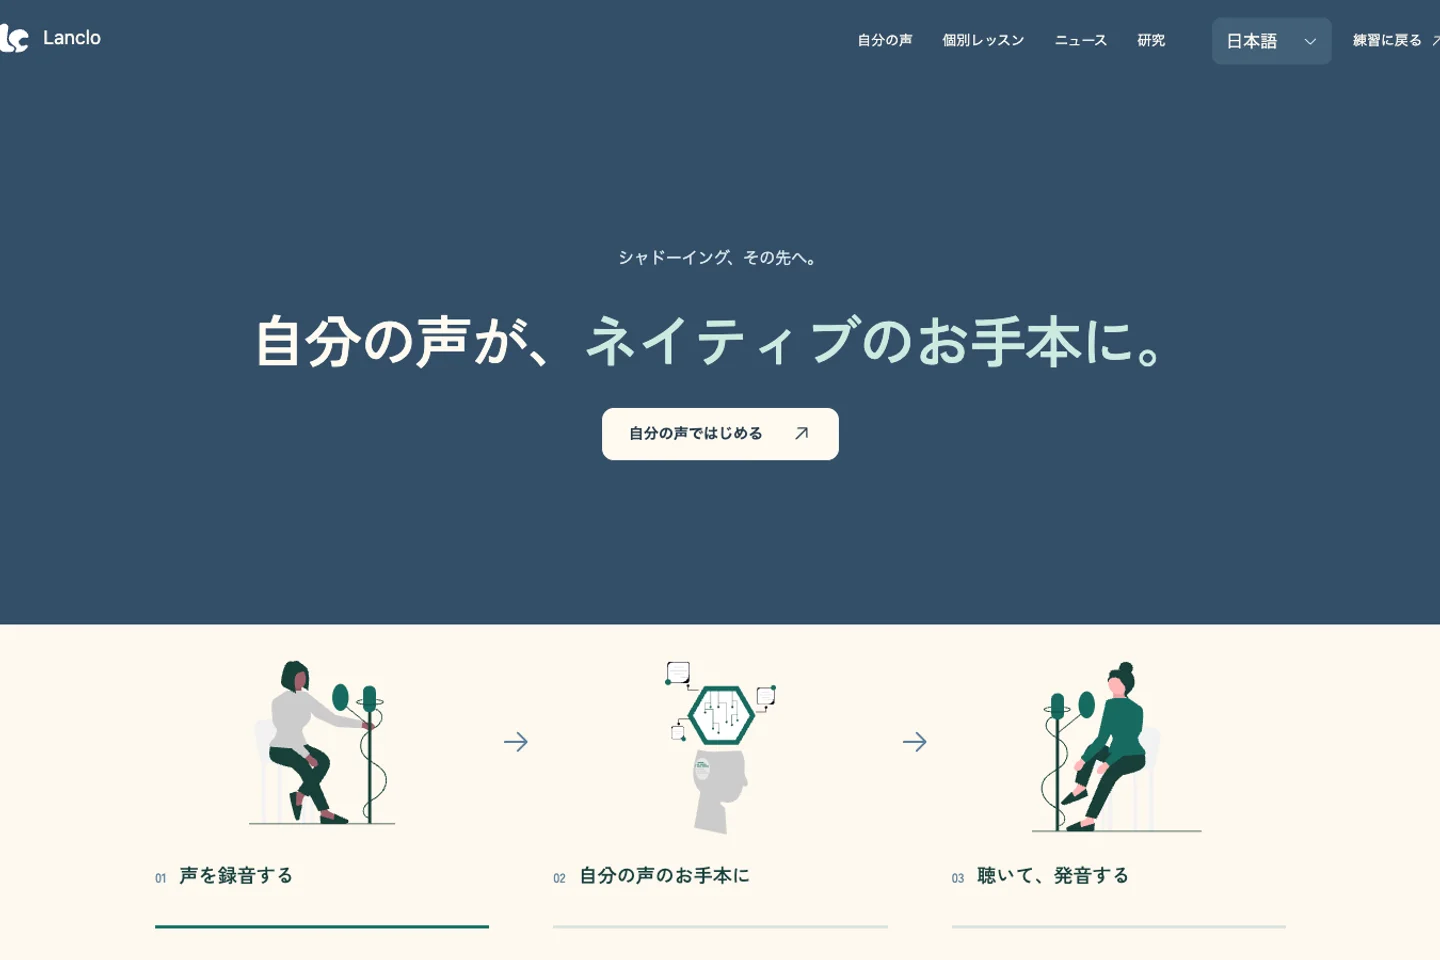
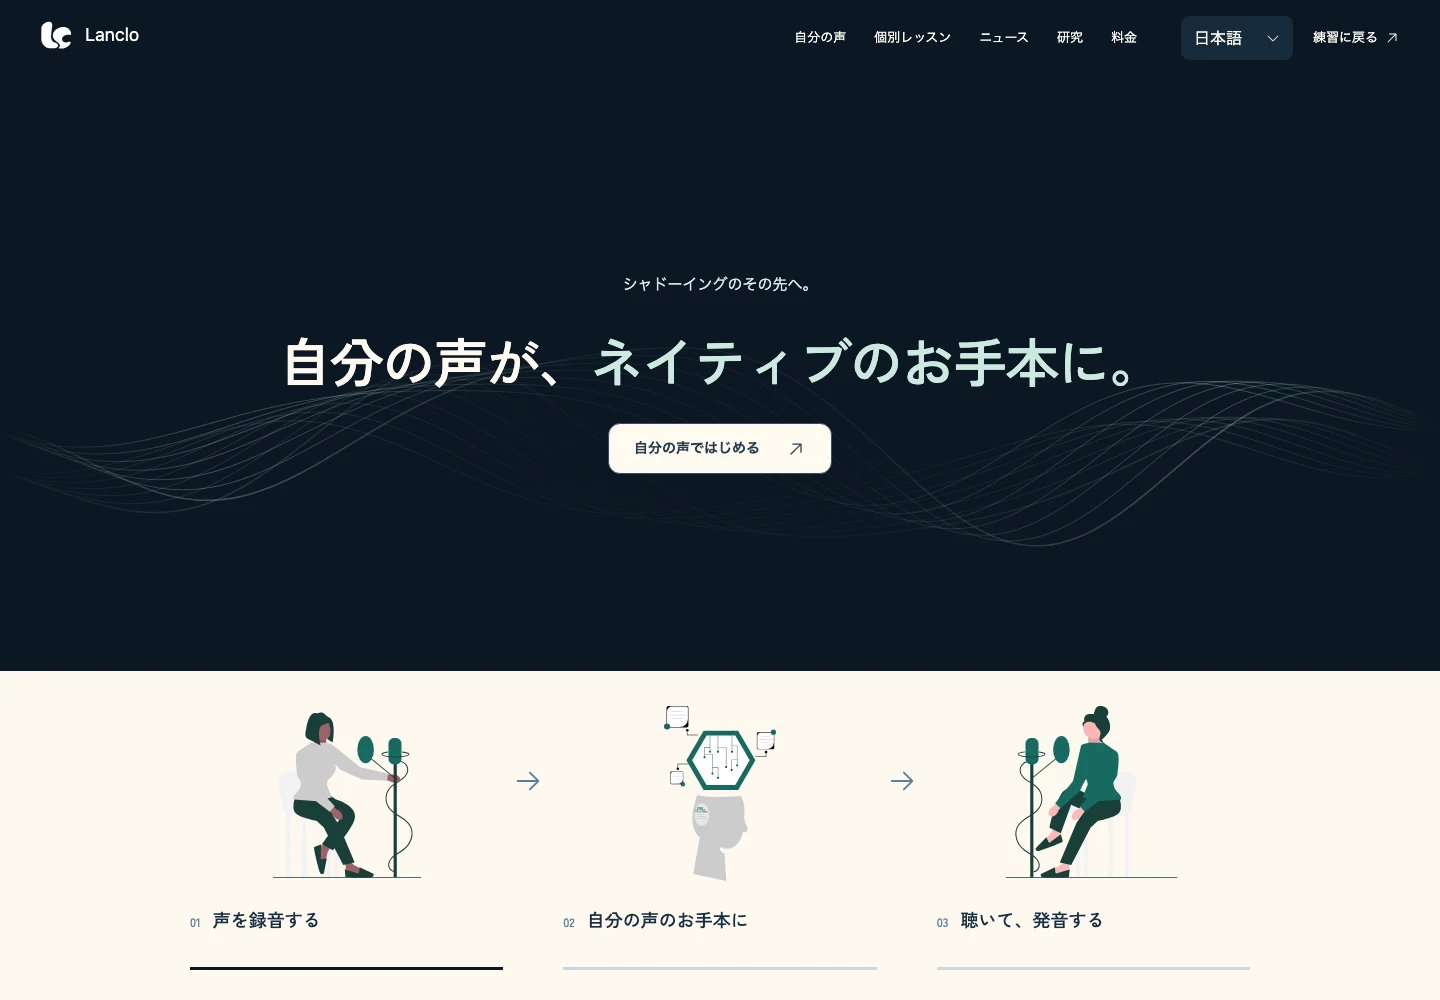
Refresh Lanclo portfolio preview and making notes

diff --git a/src/data/profile.ts b/src/data/profile.ts
@@ -740,7 +740,7 @@ export const openWorks = {
  copy:{ja:'プロンプトをコピー',en:'Copy prompt'},copied:{ja:'コピーしました',en:'Copied'},
  copyError:{ja:'コピーできませんでした。本文を選択してコピーしてください。',en:'Copy failed. Select and copy the text instead.'},
  items:[
-  {id:'lanclo-lp',kind:'LP',title:{ja:'Lanclo — 自分の声を、お手本に。',en:'Lanclo — Your voice becomes the model'},description:{ja:'3ステップの図解と、動きで伝える英語学習アプリのLP。',en:'An English-learning landing page with three illustrated steps and purposeful motion.'},image:'/works/lanclo-web.webp',href:'/works/lanclo-lp',tags:['React','Motion','Impeccable'],live:'https://voice.maepace.com/lp',source:'https://github.com/ted-M-tech/tetsuya-creative-motions/tree/open-works-v1/projects/lanclo-lp',skills:['Impeccable','Taste Skill'],summary:{ja:'自分の声を登録し、お手本を聴いて、発音する。仕組みは文章を増やすより、読む順に並べたイラストで伝えました。ニュースは写真、練習はunDrawで役割を分けています。',en:'Record, listen to your own-voice model, then speak. Sequential illustrations explain the mechanism. News uses photography; practice uses unDraw.'},prompt:{ja:'検証済みの機能と承認済みブランドを使い、英語学習アプリのLPを作る。最初に「自分の声がお手本になる」という変化を伝える。録音→自声のお手本→発音を3つのイラストで表現。練習はunDraw、ニュースは実写で統一。補足の重複を削り、320px・390px・1440pxで改行と比較表を確認する。研究の数値は何を測ったかを併記し、製品の効果検証と混同させない。',en:'Build a landing page for an English-learning app using verified capabilities and approved branding. Lead with the change: your voice becomes the model. Show record → own-voice model → speak in three illustrations. Use unDraw for practice and real photos for news. Remove repeated supporting copy. Check wrapping and comparison tables at 320, 390 and 1440px. Scope research figures to what was actually measured, not product efficacy.'},note:{ja:'約1.3倍は外部研究の得点上昇幅の比較で、Lanclo自体の効果検証ではありません。',en:'About 1.3× compares score gains in an external study, not Lanclo efficacy.'}},
+  {id:'lanclo-lp',kind:'LP',title:{ja:'Lanclo — 自分の声を、お手本に。',en:'Lanclo — Your voice becomes the model'},description:{ja:'濃紺の配色、マウスに反応する波形、3ステップのイラストで伝える英語学習LP。',en:'An English-learning LP with a deep navy palette, pointer-responsive waves and three illustrated practice steps.'},image:'/works/lanclo-web.webp',href:'/works/lanclo-lp',tags:['Astro','React','Canvas'],live:'https://voice.maepace.com/lp',source:'https://github.com/ted-M-tech/tetsuya-creative-motions/tree/lanclo-lp-navy-v2/projects/lanclo-lp',skills:['LP Create','Impeccable'],summary:{ja:'濃紺・クリーム・ミントで全体を統一。2層の波形はマウスの近くで揺れ、動きを減らす設定では静止します。苦手分析→レッスン生成→ボタンを押して読むだけを、独自のSVGイラストで図解しました。本番はAstro、公開教材はAPI不要のVite版です。',en:'A unified navy, cream and mint palette. Two layers of canvas waves respond to the pointer and become static with reduced motion. Original SVG scenes show analysis → lesson generation → press and read. Production uses Astro; the API-free study uses Vite.'},prompt:{ja:'承認済みの製品事実を保ち、LPを深いネイビー・クリーム・ミントで統一する。ヒーローには位置と位相をずらした2層の波形を置き、マウス付近だけ自然に変形させる。苦手分析→レッスン生成→ボタンを押して読むだけの3段階をSVGで図解する。重複説明を減らし、料金の初回・更新条件は残す。3言語、320px・390px・1440px、動きを減らす設定で確認する。これは制作後に整理した再構成ブリーフ。',en:'Preserve verified product facts. Unify the LP in deep navy, cream and mint; layer two pointer-responsive waves in the hero. Illustrate analysis → lesson generation → press and read with SVG scenes. Remove repeated explanations while retaining initial and renewal prices. Check three languages, 320/390/1440px and reduced motion. This is a reconstructed brief, not a single original prompt.'},note:{ja:'約1.3倍は外部研究の得点上昇幅の比較で、Lanclo自体の効果検証ではありません。',en:'About 1.3× compares score gains in an external study, not Lanclo efficacy.'}},
   {id:'lanclo-film',kind:'FILM',title:{ja:'Lanclo — 自分の声で、毎日の英語を。',en:'Lanclo — Your voice. Your daily English.'},description:{ja:'声のお手本から毎日の習慣へ。69秒のプロダクト映像。',en:'From an own-voice model to an everyday habit. A 69-second product film.'},image:'/works/lanclo-film.jpg',href:'/works/lanclo-film',tags:['HTML / SVG','HyperFrames','Gemini TTS'],live:'https://videos.maepace.com/media/lanclo-daily-r26.mp4',source:'https://github.com/ted-M-tech/tetsuya-creative-motions/tree/open-works-v1/films/lanclo',skills:['Creative Motions','HyperFrames'],summary:{ja:'シャドーイングの悩みから、自分の声のお手本、個別レッスン、ニュースへ。図解・声・テンポを組み合わせ、使う場面が浮かぶ映像にしました。HTML / SVGとGSAPで組み、HyperFramesで書き出しています。',en:'From shadowing frustration to an own-voice model, personal lessons and news. Illustration, narration and pacing show the experience. Built with HTML / SVG and GSAP, rendered with HyperFrames.'},prompt:{ja:'英語学習アプリのプロダクト映像をHTML / SVGで制作する。冒頭にシャドーイングの悩みを置き、自分の声がお手本になる驚きへつなぐ。録音→お手本→発音→分析→次の練習を、説明文を増やさず図解と動きで伝える。unDrawで画風を統一。個別練習からニュース教材へ自然につなぎ、台本・音声指示・タイミング・素材の出典をソースと一緒に残す。',en:'Create a code-based product film for an English-learning app. Open with shadowing frustration, then reveal an own-voice model. Show recording, listening, speaking, analysis and the next practice through diagrams and motion. Use one unDraw illustration family. Bridge personal practice into news material. Keep the script, voice directions, timing and asset credits with the source.'},note:{ja:'当時の訴求を記録した映像作品です。問題数やニュース配信の演出は、現在の製品仕様を保証するものではありません。',en:'This film records a creative concept at the time of production. Question counts and news-delivery scenes are not a guarantee of current product capabilities.'}},
   {"id": "tako-talk", "title": {"ja": "Tako Talk — 会話を、明日の習慣へ。", "en": "Tako Talk — A conversation worth returning to"}, "description": {"ja": "会話・振り返り・漢字スタンプを、実際のアプリ画面で伝えるLP。", "en": "A landing page showing conversation, review and kanji stamps through actual app screens."}, "live": "https://helpkansai.maepace.com/", "tags": ["HTML / CSS", "JavaScript", "Rive"], "skills": ["HTML / CSS", "JavaScript", "Rive"], "summary": {"ja": "「日本語は知っている。でも話せない」から始まり、最初の5分でできることを見せる。会話の直後に振り返り、漢字スタンプを残す流れを、端末画面と短い動きでつなぎました。", "en": "Start with knowing Japanese but struggling to speak, then show the first five minutes. Actual phone screens and short motion connect conversation, immediate review and a daily kanji stamp."}, "note": {"ja": "LPの復元記録と更新履歴から整理。制作時の会話ログ全体や使用スキルは確認できていないため、以下は再構成した指示です。", "en": "Documented from the recovered LP source and revision history. The full original conversation and authoring skill records were not available; the recipe below is reconstructed."}, "decisions": [{"ja": "機能の列挙より、会話→振り返り→スタンプの体験順で見せる。", "en": "Show conversation → review → stamp in experience order, rather than listing features."}, {"ja": "実際のアプリ画面を主役にし、Takoのキャラクターで親しみを添える。", "en": "Lead with actual app screens; use Tako’s character to add warmth."}, {"ja": "標準語での練習と、近日予定の関西弁を区別する。", "en": "Distinguish available standard-Japanese practice from the upcoming Kansai mode."}], "prompt": {"ja": "日本語学習アプリのLPを作る。対象は単語を知っていても会話になると言葉が出ない学習者。冒頭でその悩みに触れ、最初の5分を「話す→すぐ振り返る→漢字スタンプを残す」で見せる。承認済みキャラクターと実機画面を使い、説明は1場面1メッセージ。英語を主に日本語切替を用意。近日予定の機能と利用できる機能を明確に分け、320・390・768・1440pxで画面、改行、CTA、言語切替を確認する。", "en": "Create a Japanese-learning app landing page for people who know words but freeze in conversation. Show the first five minutes as talk → review immediately → keep a kanji stamp. Use approved characters and real app screens, with one message per scene. Support English and Japanese. Separate upcoming from available features. Verify screens, text wrapping, CTAs and language switching at 320, 390, 768 and 1440px."}, "kind": "LP", "image": "/works/tako-talk-web.jpg", "href": "/works/tako-talk", "source": "https://github.com/ted-M-tech/tetsuya-creative-motions/tree/main/projects/tako-talk"},
   {"id": "maepace-web", "title": {"ja": "MaePace — 好奇心を、前へ進む力に。", "en": "MaePace — Curiosity, put in motion"}, "description": {"ja": "開発実績・作品・学びを、ひとつのブランドでつなぐWebサイト。", "en": "One website connecting development projects, creative work and learning."}, "live": "https://maepace.com/", "tags": ["Astro", "TypeScript", "Canvas"], "skills": ["Astro", "TypeScript", "Canvas / CSS"], "summary": {"ja": "ツール群が動くヒーローから、人物・開発実績・完成作品へ。仕事のプロジェクトと見て試せる成果物を分けつつ、共通のヘッダーと言語設定で行き来できる構成にしました。", "en": "A moving tool universe leads into the person, development projects and completed creative work. Projects and finished artifacts remain distinct, joined by a shared header and language preference."}, "note": {"ja": "ブランド資料・実装・Git履歴を根拠に整理。公開ノートは再現用の設計資料で、サイト全体のソース一式ではありません。", "en": "Based on brand documentation, implementation and Git history. The public notes are reproduction guidance, not a full source distribution of the site."}, "decisions": [{"ja": "プロジェクト集の下に作品集を置き、完成物の一覧から制作方法へ進める。", "en": "Place creative works below projects, with finished previews leading into making-of notes."}, {"ja": "コピーを日英のデータとして分離し、同じ部品で両言語を表示する。", "en": "Separate bilingual copy from layout and use the same components for both languages."}, {"ja": "動きはCanvas・CSS・IntersectionObserverで実装し、表示外では不要な描画を止める。", "en": "Use Canvas, CSS and IntersectionObserver; avoid unnecessary rendering off screen."}], "prompt": {"ja": "個人開発者の実績と創作物を伝えるMaePaceのWebサイトをAstroで作る。承認済みロゴと単色のブランドを維持。ツール群が動くヒーロー、人物紹介、開発プロジェクト、完成作品、相談導線へつなぐ。作品はLPひとつ・動画ひとつの単位にし、クリック後に完成物、制作ノート、再現プロンプトを置く。日英コピーはデータで管理。ヘッダー・フッターは共通化。Canvasの描画ループ重複を防ぎ、スマホの改行、キーボード操作、動きを減らす設定でも確認する。", "en": "Build an Astro website for a developer’s projects and creative work. Preserve the approved MaePace mark and monochrome identity. Connect a moving tool-universe hero to the person, projects, completed works and contact. Count one LP or film as one artifact; its detail page shows the result, making-of and reproduction prompts. Manage bilingual copy as data and share the header and footer. Prevent duplicate Canvas animation loops and check mobile wrapping, keyboard navigation and reduced motion."}, "kind": "LP", "image": "/works/maepace-web.jpg", "href": "/works/maepace-web", "source": "https://github.com/ted-M-tech/tetsuya-creative-motions/tree/main/projects/maepace-web"},
